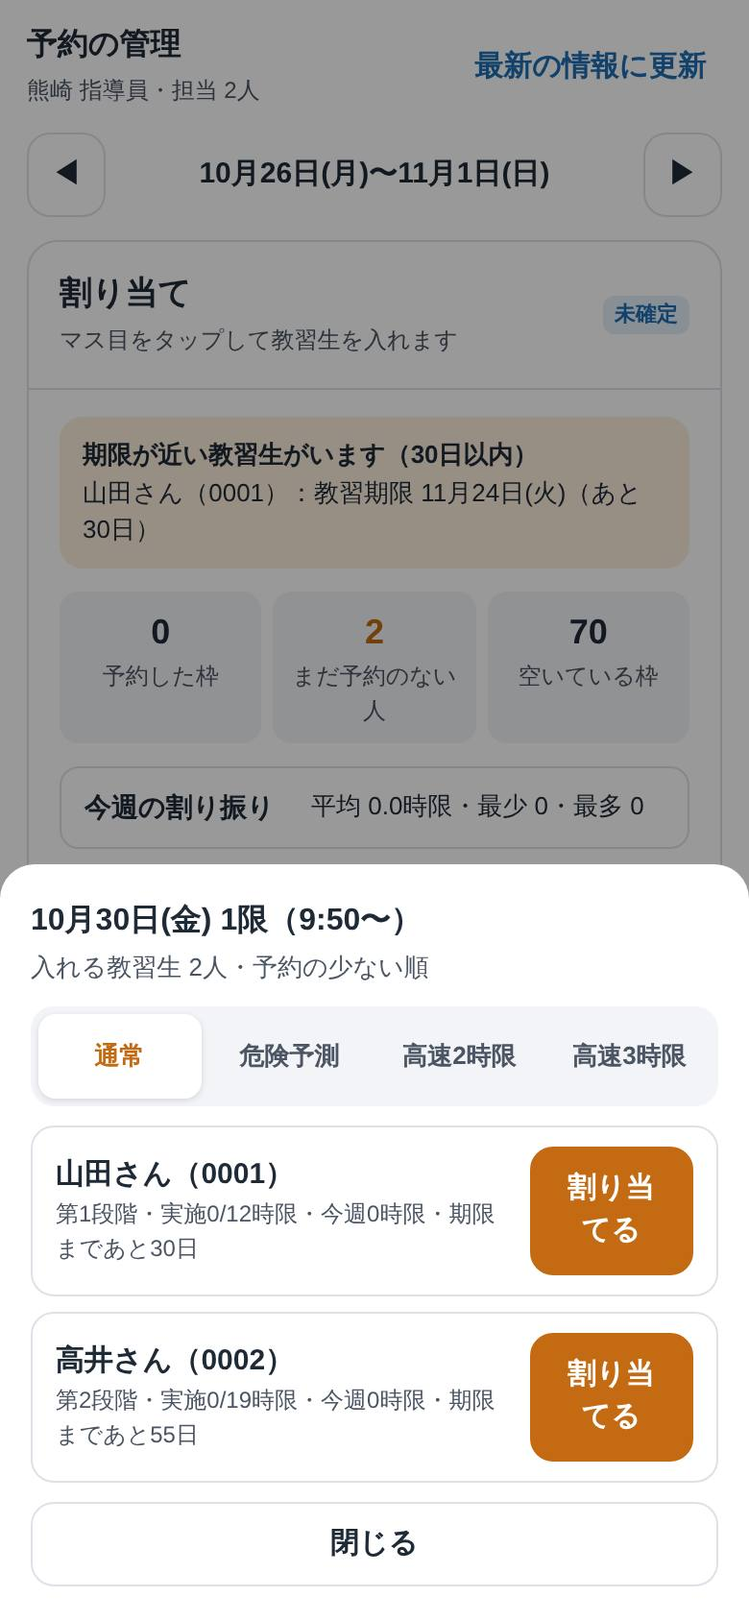
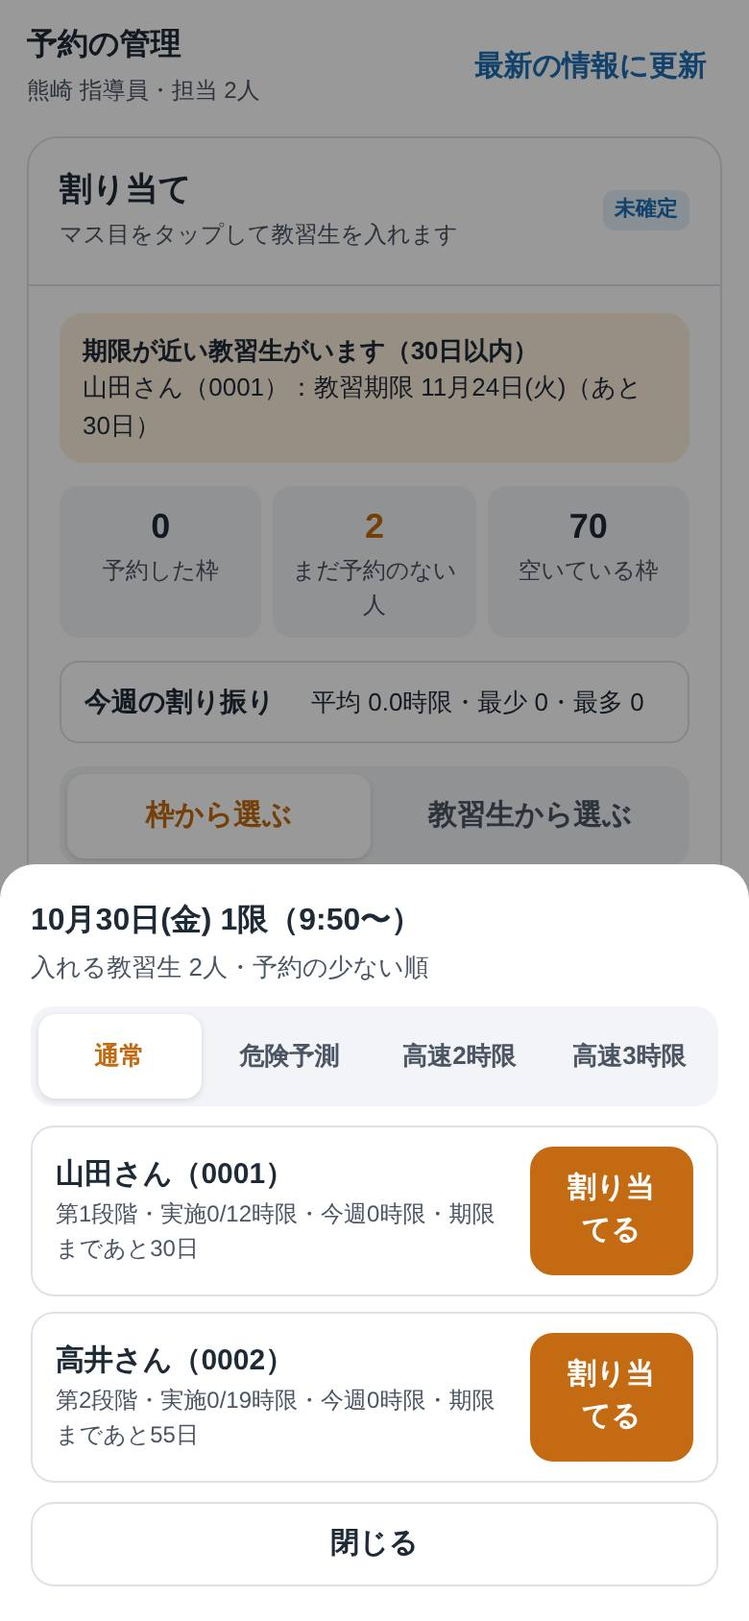
指導員画面の週の切り替えを、マス目のすぐ上に移動（使い方も更新）
Claude-Session: https://claude.ai/code/session_01TFEssVs3Y3zAmrgZUn2J4X

diff --git a/guide-instructor.html b/guide-instructor.html
@@ -49,5 +49,5 @@ footer{margin-top:28px;font-size:13px;color:var(--muted)}
 @media print{body{background:#fff}.phone{box-shadow:none}section.step{break-inside:avoid-page}nav.toc{display:none}}
 </style>
 <div class="wrap"><p style="margin:0 0 12px"><a href="javascript:history.back()" style="color:var(--blue);font-weight:700;text-decoration:none">← 前の画面に戻る</a></p><header class="cover"><div class="eyebrow">聖徳自動車学園　予約の割り当て</div><h1>指導員の画面の使い方</h1><p class="lead">教習生がスマホで登録した空き時間を見ながら、週ごとに予約を割り当てます。確定すると、教習生のスマホに通知が届きます。担当の教習生の登録やQRコードも、この画面で扱います。</p><nav class="toc" aria-label="目次"><a href="#s1">ログイン</a><a href="#s2">ログインした時のお知らせ</a><a href="#s3">画面の見方</a><a href="#s4">マス目の見方</a><a href="#s5">枠から選んで入れる</a><a href="#s6">教習生から選んで入れる</a><a href="#s7">確定して通知する</a><a href="#s8">毎日のチェック</a><a href="#s9">みきわめ</a><a href="#s10">教習生の管理</a><a href="#s11">アクセス記録</a><a href="#s12">設定</a><a href="#s13">教習生を登録してQRを渡す</a><a href="#faq">困った時</a></nav></header>
-<section class="step" id="s1"><h2><span class="no">1</span>ログイン</h2><p>指導員用のQRコードを読み取ると、ログイン画面が開きます。最初にホーム画面に追加し、右上の「通知」をオンにしておくと、キャンセル希望などの知らせが届きます。</p><div class="fig"><div class="phone part"><img src="guide/i_login.jpg" alt="画面の例（メールアドレス、パスワード、ログイン）"><div class="mk" style="left:7.1%;top:26.43%;width:85.7%;height:9.36%"><b>1</b></div><div class="mk" style="left:7.1%;top:41.43%;width:85.7%;height:9.36%"><b>2</b></div><div class="mk" style="left:7.1%;top:51.91%;width:85.7%;height:9.36%"><b>3</b></div></div><ol class="notes"><li><b>1</b><div><strong>メールアドレス</strong><span>QRコードから開くと、自分のメールアドレスが入っています。</span></div></li><li><b>2</b><div><strong>パスワード</strong><span>事務所から伝えられたパスワードを入れます。</span></div></li><li><b>3</b><div><strong>ログイン</strong><span>押すと割り当ての画面が開きます。</span></div></li></ol></div></section><section class="step" id="s2"><h2><span class="no">2</span>ログインした時のお知らせ</h2><p>ログインした時と、しばらくたってアプリに戻った時に、画面の真ん中にお知らせが出ます。開いたままでも、キャンセル希望が届くなど新しいお知らせが増えると、その場で出ます（新しいものには赤い「新着」が付きます）。</p><div class="fig"><div class="phone"><img src="guide/i_notice.jpg" alt="画面の例（お知らせ、あいさつ、お知らせの一覧、OK）"><div class="mk" style="left:7.4%;top:30.36%;width:85.2%;height:8.62%"><b>1</b></div><div class="mk" style="left:7.4%;top:38.90%;width:85.2%;height:3.82%"><b>2</b></div><div class="mk" style="left:7.4%;top:46.24%;width:85.2%;height:16.46%"><b>3</b></div><div class="mk" style="left:-0.3%;top:0.10%;width:100.6%;height:99.80%"><b>4</b></div></div><ol class="notes"><li><b>1</b><div><strong>お知らせ</strong><span>学園のマークの下に「お知らせ」と出ます。</span></div></li><li><b>2</b><div><strong>あいさつ</strong><span>「○○さん　お疲れ様です！」と、お知らせの件数が出ます。0件の時も出ます。</span></div></li><li><b>3</b><div><strong>お知らせの一覧</strong><span>キャンセル希望、本日の検定、終わった教習のチェック待ち、期限が近い教習生、教習の順番のずれ、教習生が◯を外した未確定の予約が並びます。教習生の名前は「山田さん（0001）」のように教習生番号付きで出ます。</span></div></li><li><b>4</b><div><strong>OK</strong><span>押すと閉じます。対応は画面の上のお知らせ（8で説明）から行います。</span></div></li></ol></div><div class="tip"><b>これまでのお知らせ</b>画面の下（PCでは左端）の「お知らせ」タブで、アプリを開いた時に出たお知らせを、あとから新しい順に見直せます（その端末に残ります）。</div></section><section class="step" id="s3"><h2><span class="no">3</span>画面の見方</h2><p>画面の下（PCでは左端）のタブで、「教習生の管理」「予約の管理」「お知らせ」「設定」を切り替えます。「予約の管理」には、上から順に、週の切り替え、その週の状況、割り当て方の切り替え、マス目が並んでいます。PCで開くと、左にマス目、右に集計やお知らせが並ぶPC表示になります。</p><div class="fig"><div class="phone"><img src="guide/i_top.jpg" alt="画面の例（画面の切り替え、最新の情報に更新、週の切り替え、確定済み／未確定、この週の状況、今週の割り振り、割り当て方）"><div class="mk" style="left:-0.3%;top:92.73%;width:100.6%;height:7.17%"><b>1</b></div><div class="mk" style="left:60.6%;top:1.17%;width:36.7%;height:6.01%"><b>2</b></div><div class="mk" style="left:2.8%;top:7.72%;width:94.4%;height:6.07%"><b>3</b></div><div class="mk" style="left:79.7%;top:17.82%;width:13.1%;height:3.23%"><b>4</b></div><div class="mk" style="left:7.1%;top:36.03%;width:85.7%;height:10.16%"><b>5</b></div><div class="mk" style="left:7.4%;top:46.93%;width:85.2%;height:5.66%"><b>6</b></div><div class="mk" style="left:7.1%;top:53.33%;width:85.7%;height:6.96%"><b>7</b></div></div><ol class="notes"><li><b>1</b><div><strong>画面の切り替え</strong><span>「教習生の管理」（10で説明）、「予約の管理」、「お知らせ」、「設定」を切り替えます。いつも表示されています。</span></div></li><li><b>2</b><div><strong>最新の情報に更新</strong><span>教習生の◯やキャンセル希望は自動で反映されますが、予約の内容を読み直したい時に押します。</span></div></li><li><b>3</b><div><strong>週の切り替え</strong><span>◀ ▶ で前後の週に移ります。最初は来週が開きます。</span></div></li><li><b>4</b><div><strong>確定済み／未確定</strong><span>この週の予約を教習生に通知したかどうかです。</span></div></li><li><b>5</b><div><strong>この週の状況</strong><span>予約した枠の数、まだ予約のない教習生の人数、空いている枠の数です。</span></div></li><li><b>6</b><div><strong>今週の割り振り</strong><span>教習生ごとに、この週に何時限入っているかを確認できます（押すと一覧が開きます）。平均・最少・最多と、差が2時限以上ある時はお知らせが出ます。一覧は少ない人から並び、0時限は赤、平均より1時限以上少ない人はオレンジです。名前を押すと、その人を選んで割り当てられます。進み具合に差がつかないよう、少ない人から先に入れてください。</span></div></li><li><b>7</b><div><strong>割り当て方</strong><span>「枠から選ぶ」と「教習生から選ぶ」を切り替えます（5・6で説明）。</span></div></li></ol></div></section><section class="step" id="s4"><h2><span class="no">4</span>マス目の見方</h2><p>縦が時限、横が日付です。空いているマスには、その枠に入れる教習生の人数が出ます。</p><div class="fig"><div class="phone part"><img src="guide/i_grid.jpg" alt="画面の例（色の見方、日付、枠）"><div class="mk" style="left:7.1%;top:2.14%;width:85.7%;height:8.10%"><b>1</b></div><div class="mk" style="left:20.0%;top:17.54%;width:11.0%;height:3.97%"><b>2</b></div><div class="mk" style="left:60.9%;top:21.35%;width:10.5%;height:7.15%"><b>3</b></div></div><ol class="notes"><li><b>1</b><div><strong>色の見方</strong><span>その週で一番多い人数を基準に、緑（少ない）・黄（中間）・赤（多い）に分けています。入れる人が少ない枠ほど先に埋めるのがおすすめです。</span></div></li><li><b>2</b><div><strong>日付</strong><span>月曜から日曜まで出ます。土曜は青、日曜は赤です。</span></div></li><li><b>3</b><div><strong>枠</strong><span>数字と棒の長さが、その枠に入れる人数です。予約が入ると教習生の名前が出ます。教習生がアプリで「確認しました」を押すと、その枠が緑の「確認済」に変わります（開いたままでもすぐ変わります）。</span></div></li></ol></div></section><section class="step" id="s5"><h2><span class="no">5</span>枠から選んで入れる</h2><p>「枠から選ぶ」のまま、入れたいマスを押します。その枠に入れる教習生の一覧が出ます。</p><div class="fig"><div class="phone"><img src="guide/i_slot.jpg" alt="画面の例（教習の種類、候補の教習生、割り当てる）"><div class="mk" style="left:3.3%;top:61.63%;width:93.4%;height:6.96%"><b>1</b></div><div class="mk" style="left:3.3%;top:68.97%;width:93.4%;height:11.35%"><b>2</b></div><div class="mk" style="left:69.9%;top:70.28%;width:23.5%;height:8.74%"><b>3</b></div></div><ol class="notes"><li><b>1</b><div><strong>教習の種類</strong><span>通常・危険予測・高速2時限（単独高速）・高速3時限を切り替えます。危険予測は12時限目、高速教習は13時限目の番が来た教習生だけが候補に出て、2時限・3時限がまとめて入ります（第2段階のみ）。</span></div></li><li><b>2</b><div><strong>候補の教習生</strong><span>今週の予約が少ない人、教習期限が近い人の順に並びます。</span></div></li><li><b>3</b><div><strong>割り当てる</strong><span>押すとその枠に入ります。この時点では、まだ教習生に通知されません。</span></div></li></ol></div><div class="tip"><b>高速教習（3時限）は3人まで一緒に入れます</b>高速教習（3時限）が入っている枠を押すと「この高速教習に一緒に入れる」が出ます。同じ時限に3人まで入れられます。2人以上入ると、枠に「2人・高速」のように人数が出ます。単独高速と危険予測は1人だけです。</div><div class="tip"><b>ルールは自動で確かめます</b>1日の上限（第1段階2時限・第2段階3時限）、連続3時限（高速教習の3時限だけOK）、高速教習の組み合わせ、危険予測は12時限目・高速教習は13時限目から、同じ日に入れられる危険予測と高速教習の組（危険予測4・5限→単独高速6・7限だけ）などのルールに合わない時は入れられません。日没が早い期間の高速教習などは警告が出て、確認すれば入れられます。</div></section><section class="step" id="s6"><h2><span class="no">6</span>教習生から選んで入れる</h2><p>「教習生から選ぶ」に切り替えて、一覧から教習生を選びます。その人が入れる枠だけが光ります。</p><div class="fig"><div class="phone part"><img src="guide/i_pick.jpg" alt="画面の例（割り当て中の教習生、光っている枠、やめる）"><div class="mk" style="left:7.1%;top:1.24%;width:85.7%;height:16.62%"><b>1</b></div><div class="mk" style="left:20.2%;top:23.12%;width:10.5%;height:7.36%"><b>2</b></div><div class="mk" style="left:77.6%;top:2.55%;width:12.7%;height:14.00%"><b>3</b></div></div><ol class="notes"><li><b>1</b><div><strong>割り当て中の教習生</strong><span>選んだ人の段階と、1日に入れられる時限数が出ます。</span></div></li><li><b>2</b><div><strong>光っている枠</strong><span>押すと予約が入ります。危険予測（12時限目）や高速教習（13時限目）の番の人を選ぶと、その教習を入れられる枠だけが光ります（緑は危険予測、オレンジは高速教習。高速は上で2時限か3時限を選びます。光るのは始まりの時限です）。すでに高速教習（3時限）が入っている枠に一緒に入れる時は「一緒に2/3人」と光ります。</span></div></li><li><b>3</b><div><strong>やめる</strong><span>選ぶのをやめて、一覧に戻ります。</span></div></li></ol></div></section><section class="step" id="s7"><h2><span class="no">7</span>確定して通知する</h2><p>割り当てが終わったら、画面下の「この週の予約を確定して通知」を押します。教習生1人につき、1回の通知にまとめて届きます。</p><div class="fig"><div class="phone part"><img src="guide/i_confirm.jpg" alt="画面の例（担当の教習生、確定して通知）"><div class="mk" style="left:7.1%;top:33.67%;width:85.7%;height:20.80%"><b>1</b></div><div class="mk" style="left:7.1%;top:77.38%;width:85.7%;height:9.04%"><b>2</b></div></div><ol class="notes"><li><b>1</b><div><strong>担当の教習生</strong><span>予約の少ない順に並びます。「予約なし」の人がいないか確認してください。</span></div></li><li><b>2</b><div><strong>確定して通知</strong><span>押すと、まだ確定していない予約を教習生に通知します。</span></div></li></ol></div><div class="tip"><b>確定するまでは通知されません</b>確定する前は、何度入れ直しても教習生には通知されません。確定した後に追加・取り消しをすると、その都度通知されます。確定した後に予約を変えたい時は、マス目の予約を押して「この予約を取り消す」か「別の教習生に変える」を選びます（教習生に自動で通知されます）。</div></section><section class="step" id="s8"><h2><span class="no">8</span>毎日のチェック</h2><p>画面の上に、対応が必要なことがまとめて出ます。</p><div class="fig"><div class="phone part"><img src="guide/i_alerts.jpg" alt="画面の例（実施、欠席、本日、検定日の方、承認、却下）"><div class="mk" style="left:74.8%;top:26.91%;width:14.9%;height:7.57%"><b>1</b></div><div class="mk" style="left:60.0%;top:26.91%;width:14.9%;height:7.57%"><b>2</b></div><div class="mk" style="left:7.1%;top:37.06%;width:85.7%;height:10.80%"><b>3</b></div><div class="mk" style="left:74.8%;top:68.60%;width:14.9%;height:7.57%"><b>4</b></div><div class="mk" style="left:60.0%;top:68.60%;width:14.9%;height:7.57%"><b>5</b></div></div><ol class="notes"><li><b>1</b><div><strong>実施</strong><span>教習が終わったら押します。受講済みの時限数が1つ増えます。</span></div></li><li><b>2</b><div><strong>欠席</strong><span>教習生が来なかった時に押します。教習生に欠席の通知が届きます。</span></div></li><li><b>3</b><div><strong>本日、検定日の方</strong><span>今日が検定日の教習生が並びます。</span></div></li><li><b>4</b><div><strong>承認</strong><span>教習生からのキャンセル希望を受けます。予約が取り消され、教習生に通知されます。</span></div></li><li><b>5</b><div><strong>却下</strong><span>キャンセル希望を断ります。予約はそのままで、教習生に通知されます。</span></div></li></ol></div><div class="tip"><b>付け間違えた時</b>マス目の予約を押すと「チェックを取り消す」が出ます。</div></section><section class="step" id="s9"><h2><span class="no">9</span>みきわめ</h2><p>第1段階の12時限目、第2段階の19時限目の教習で「実施」を押すと、みきわめの記録を入れる画面が出ます。不合格の時は、合格するまで次の教習でも同じ画面が出ます。</p><div class="fig"><div class="phone"><img src="guide/i_mk.jpg" alt="画面の例（みきわめの結果、検定日、学科及び効果測定、OK）"><div class="mk" style="left:3.3%;top:55.17%;width:93.4%;height:5.78%"><b>1</b></div><div class="mk" style="left:3.3%;top:61.33%;width:93.4%;height:16.50%"><b>2</b></div><div class="mk" style="left:3.3%;top:79.81%;width:93.4%;height:5.78%"><b>3</b></div><div class="mk" style="left:3.3%;top:85.97%;width:93.4%;height:6.07%"><b>4</b></div></div><ol class="notes"><li><b>1</b><div><strong>みきわめの結果</strong><span>合格か不合格を選びます。</span></div></li><li><b>2</b><div><strong>検定日</strong><span>合格の時だけ出ます。検定日を入れるか、まだ決まっていなければ「検定日は未確定」にチェックします。</span></div></li><li><b>3</b><div><strong>学科及び効果測定</strong><span>終わっているかどうかを選びます。</span></div></li><li><b>4</b><div><strong>OK</strong><span>記録して、教習を実施にします。</span></div></li></ol></div><div class="fig"><div class="phone"><img src="guide/i_mk2.jpg" alt="画面の例（教習生に伝えること、みきわめ報告書）"><div class="mk" style="left:3.3%;top:73.06%;width:93.4%;height:10.10%"><b>1</b></div><div class="mk" style="left:3.3%;top:83.78%;width:93.4%;height:7.79%"><b>2</b></div></div><ol class="notes"><li><b>1</b><div><strong>教習生に伝えること</strong><span>学科及び効果測定が「終わっていない」時に出ます。検定日の2日前までに終わらせるよう、教習生に伝えてください。</span></div></li><li><b>2</b><div><strong>みきわめ報告書</strong><span>学科及び効果測定が終わっていない教習生のみきわめ報告書を提出してください。</span></div></li></ol></div><div class="tip"><b>検定日があとで決まった時</b>「教習生の管理」で教習生の「編集」を開くと、検定日を入れられます。検定日の当日の朝、教習生に通知が届きます。</div></section><section class="step" id="s10"><h2><span class="no">10</span>教習生の管理</h2><p>上の「教習生の管理」を押すと、担当の教習生の一覧が出ます。</p><div class="fig"><div class="phone part"><img src="guide/i_mng.jpg" alt="画面の例（教習生を追加、QRカードを印刷、並べ替え、選ぶ、予約の管理）"><div class="mk" style="left:7.1%;top:17.79%;width:28.3%;height:11.40%"><b>1</b></div><div class="mk" style="left:35.9%;top:17.79%;width:28.3%;height:11.40%"><b>2</b></div><div class="mk" style="left:50.2%;top:32.36%;width:42.6%;height:6.01%"><b>3</b></div><div class="mk" style="left:9.2%;top:44.89%;width:4.9%;height:2.34%"><b>4</b></div><div class="mk" style="left:24.2%;top:92.73%;width:26.6%;height:7.17%"><b>5</b></div></div><ol class="notes"><li><b>1</b><div><strong>教習生を追加</strong><span>新しい教習生を登録します。</span></div></li><li><b>2</b><div><strong>QRカードを印刷</strong><span>チェックを付けた教習生のQRカードをまとめて印刷します。</span></div></li><li><b>3</b><div><strong>並べ替え</strong><span>教習生番号（小さい順・大きい順）、名前（アイウエオ順・逆順）、検定日が近い順・遠い順、教習開始日が近い順・遠い順で並べ替えます。PCでは表の見出しを押しても並べ替えられます。</span></div></li><li><b>4</b><div><strong>選ぶ</strong><span>印刷したい教習生にチェックを付けます。表は横にスクロールでき、右端の「編集」で登録内容の変更、QRコードの表示・再発行、削除ができます。</span></div></li><li><b>5</b><div><strong>予約の管理</strong><span>割り当ての画面に戻ります。</span></div></li></ol></div></section><section class="step" id="s11"><h2><span class="no">11</span>アクセス記録</h2><p>「教習生の管理」の上の「アクセス記録」で、担当の教習生がいつアプリを開いたかを見られます。</p><div class="fig"><div class="phone part"><img src="guide/i_access.jpg" alt="画面の例（切り替え、最後に開いた日時、最近のアクセス）"><div class="mk" style="left:2.8%;top:7.72%;width:94.4%;height:6.96%"><b>1</b></div><div class="mk" style="left:7.1%;top:30.94%;width:85.7%;height:16.56%"><b>2</b></div><div class="mk" style="left:7.1%;top:48.59%;width:85.7%;height:8.50%"><b>3</b></div></div><ol class="notes"><li><b>1</b><div><strong>切り替え</strong><span>「担当の教習生」と「アクセス記録」を切り替えます。</span></div></li><li><b>2</b><div><strong>最後に開いた日時</strong><span>担当の教習生が最後にアプリを開いた日時です。開いたことのない人は「まだ開いていません」と出ます。名前を押すと、その人の記録をすべて見られます。</span></div></li><li><b>3</b><div><strong>最近のアクセス</strong><span>担当の教習生が開いた記録が、新しい順に並びます。</span></div></li></ol></div><div class="tip"><b>記録は90日分です</b>それより古い記録は毎朝自動で消えます。</div></section><section class="step" id="s12"><h2><span class="no">12</span>設定</h2><p>画面の下（PCでは左端）の「設定」で、見た目や使い方を変えられます。設定はその端末に覚えます。画面の下の方には、この端末で通知を受け取る設定、ホーム画面への追加、ログアウト、使い方があります。</p><div class="fig"><div class="phone"><img src="guide/i_set.jpg" alt="画面の例（画面の明るさ、予約の管理）"><div class="mk" style="left:7.1%;top:11.15%;width:85.7%;height:15.85%"><b>1</b></div><div class="mk" style="left:7.1%;top:59.37%;width:85.7%;height:40.20%"><b>2</b></div></div><ol class="notes"><li><b>1</b><div><strong>画面の明るさ</strong><span>ライト（白い背景）、ダーク（黒い背景）、スマホやPCの設定に合わせる、から選びます。その下で、文字の大きさと、PC表示・スマホ表示の切り替えも選べます。</span></div></li><li><b>2</b><div><strong>予約の管理</strong><span>開いた時に表示する週（来週・今週）、最初の割り当て方、「今週の割り振り」を最初から開いておくかを選べます。</span></div></li></ol></div></section><section class="step" id="s13"><h2><span class="no">13</span>教習生を登録してQRを渡す</h2><p>名前（漢字）とフリガナは必ず入れます。ほかの項目はあとからでも入れられます。</p><div class="fig"><div class="phone"><img src="guide/i_new.jpg" alt="画面の例（名前（漢字）、フリガナ、教習生番号）"><div class="mk" style="left:3.3%;top:16.31%;width:46.5%;height:6.07%"><b>1</b></div><div class="mk" style="left:50.2%;top:16.31%;width:46.5%;height:6.07%"><b>2</b></div><div class="mk" style="left:3.3%;top:25.55%;width:46.5%;height:6.07%"><b>3</b></div></div><ol class="notes"><li><b>1</b><div><strong>名前（漢字）</strong><span>必ず入れます。</span></div></li><li><b>2</b><div><strong>フリガナ</strong><span>必ず入れます。ひらがなで入れても、カタカナに直ります。</span></div></li><li><b>3</b><div><strong>教習生番号</strong><span>数字4桁で入れます（例：0123）。画面の下の方に、生年月日・教習期限日・仮免交付日などが続きます。月末・月初に予定が分かる人は「空き時間の入力締切」を遅らせてください（標準は前の月の20日）。第1段階の最低教習時限が12時限でない人は「第1段階の最低教習時限」に入れます。転校の人などは「危険予測」「高速教習」の受講済みも選べます。最後に「保存する」を押します。</span></div></li></ol></div><div class="fig"><div class="phone"><img src="guide/i_qr.jpg" alt="画面の例（その人のQRコード、QRカードを印刷する）"><div class="mk" style="left:21.0%;top:50.25%;width:58.0%;height:27.75%"><b>1</b></div><div class="mk" style="left:3.3%;top:85.97%;width:93.4%;height:6.07%"><b>2</b></div></div><ol class="notes"><li><b>1</b><div><strong>その人のQRコード</strong><span>保存するとすぐに出ます。その場で教習生のスマホのカメラで読み取ってもらい、ホーム画面に追加と通知のオンまで一緒にやると安心です。</span></div></li><li><b>2</b><div><strong>QRカードを印刷する</strong><span>紙で渡したい時に使います。</span></div></li></ol></div><div class="fig"><div class="phone"><img src="guide/i_edit.jpg" alt="画面の例（QRコードを表示する、QRコードを再発行する、この教習生のデータを削除する）"><div class="mk" style="left:3.3%;top:70.75%;width:93.4%;height:6.07%"><b>1</b></div><div class="mk" style="left:3.3%;top:76.97%;width:93.4%;height:8.74%"><b>2</b></div><div class="mk" style="left:3.3%;top:85.86%;width:93.4%;height:6.07%"><b>3</b></div></div><ol class="notes"><li><b>1</b><div><strong>QRコードを表示する</strong><span>読み取り忘れや、スマホを替えた時に使います。</span></div></li><li><b>2</b><div><strong>QRコードを再発行する</strong><span>QRコードをなくした時や、他の人に見られた時に使います。古いQRコードは使えなくなりますが、空き時間や予約はそのまま残ります。</span></div></li><li><b>3</b><div><strong>この教習生のデータを削除する</strong><span>空き時間や予約も含めてすべて消えます。元に戻せません。</span></div></li></ol></div><div class="tip"><b>転校で第2段階から始める人</b>編集画面の「段階」を第2段階にして、「これまでに受けた時限数」を入れてください。</div></section><section class="step" id="faq"><h2><span class="no">？</span>困った時は</h2><div class="faq"><div><strong>教習生の◯が変わった</strong><span>教習生が◯を付け外しすると、開いたままの画面にもすぐに出ます。未確定の予約の枠から◯が外されると、赤く「空き取消」と出ます。</span></div><div><strong>画面の内容が古い気がする</strong><span>画面いちばん下の「最新の情報に更新」を押してください。</span></div><div><strong>画面が開かない・読み込み中のまま</strong><span>LINEなどのアプリの中ではなく、Safari（iPhone）か Chrome（Android）で開いてください。</span></div><div><strong>ログインできない</strong><span>事務所（管理者）に連絡してください。指導員の登録がまだの可能性があります。</span></div></div></section>
+<section class="step" id="s1"><h2><span class="no">1</span>ログイン</h2><p>指導員用のQRコードを読み取ると、ログイン画面が開きます。最初にホーム画面に追加し、右上の「通知」をオンにしておくと、キャンセル希望などの知らせが届きます。</p><div class="fig"><div class="phone part"><img src="guide/i_login.jpg" alt="画面の例（メールアドレス、パスワード、ログイン）"><div class="mk" style="left:7.1%;top:26.43%;width:85.7%;height:9.36%"><b>1</b></div><div class="mk" style="left:7.1%;top:41.43%;width:85.7%;height:9.36%"><b>2</b></div><div class="mk" style="left:7.1%;top:51.91%;width:85.7%;height:9.36%"><b>3</b></div></div><ol class="notes"><li><b>1</b><div><strong>メールアドレス</strong><span>QRコードから開くと、自分のメールアドレスが入っています。</span></div></li><li><b>2</b><div><strong>パスワード</strong><span>事務所から伝えられたパスワードを入れます。</span></div></li><li><b>3</b><div><strong>ログイン</strong><span>押すと割り当ての画面が開きます。</span></div></li></ol></div></section><section class="step" id="s2"><h2><span class="no">2</span>ログインした時のお知らせ</h2><p>ログインした時と、しばらくたってアプリに戻った時に、画面の真ん中にお知らせが出ます。開いたままでも、キャンセル希望が届くなど新しいお知らせが増えると、その場で出ます（新しいものには赤い「新着」が付きます）。</p><div class="fig"><div class="phone"><img src="guide/i_notice.jpg" alt="画面の例（お知らせ、あいさつ、お知らせの一覧、OK）"><div class="mk" style="left:7.4%;top:30.36%;width:85.2%;height:8.62%"><b>1</b></div><div class="mk" style="left:7.4%;top:38.90%;width:85.2%;height:3.82%"><b>2</b></div><div class="mk" style="left:7.4%;top:46.24%;width:85.2%;height:16.46%"><b>3</b></div><div class="mk" style="left:-0.3%;top:0.10%;width:100.6%;height:99.80%"><b>4</b></div></div><ol class="notes"><li><b>1</b><div><strong>お知らせ</strong><span>学園のマークの下に「お知らせ」と出ます。</span></div></li><li><b>2</b><div><strong>あいさつ</strong><span>「○○さん　お疲れ様です！」と、お知らせの件数が出ます。0件の時も出ます。</span></div></li><li><b>3</b><div><strong>お知らせの一覧</strong><span>キャンセル希望、本日の検定、終わった教習のチェック待ち、期限が近い教習生、教習の順番のずれ、教習生が◯を外した未確定の予約が並びます。教習生の名前は「山田さん（0001）」のように教習生番号付きで出ます。</span></div></li><li><b>4</b><div><strong>OK</strong><span>押すと閉じます。対応は画面の上のお知らせ（8で説明）から行います。</span></div></li></ol></div><div class="tip"><b>これまでのお知らせ</b>画面の下（PCでは左端）の「お知らせ」タブで、アプリを開いた時に出たお知らせを、あとから新しい順に見直せます（その端末に残ります）。</div></section><section class="step" id="s3"><h2><span class="no">3</span>画面の見方</h2><p>画面の下（PCでは左端）のタブで、「教習生の管理」「予約の管理」「お知らせ」「設定」を切り替えます。「予約の管理」には、上から順に、その週の状況、割り当て方の切り替え、週の切り替え、マス目が並んでいます。PCで開くと、左にマス目、右に集計やお知らせが並ぶPC表示になります。</p><div class="fig"><div class="phone"><img src="guide/i_top.jpg" alt="画面の例（画面の切り替え、最新の情報に更新、確定済み／未確定、この週の状況、今週の割り振り、割り当て方）"><div class="mk" style="left:-0.3%;top:92.73%;width:100.6%;height:7.17%"><b>1</b></div><div class="mk" style="left:60.6%;top:1.17%;width:36.7%;height:6.01%"><b>2</b></div><div class="mk" style="left:79.7%;top:11.36%;width:13.1%;height:3.23%"><b>3</b></div><div class="mk" style="left:7.1%;top:29.58%;width:85.7%;height:10.16%"><b>4</b></div><div class="mk" style="left:7.4%;top:40.48%;width:85.2%;height:5.66%"><b>5</b></div><div class="mk" style="left:7.1%;top:46.87%;width:85.7%;height:6.96%"><b>6</b></div></div><ol class="notes"><li><b>1</b><div><strong>画面の切り替え</strong><span>「教習生の管理」（10で説明）、「予約の管理」、「お知らせ」、「設定」を切り替えます。いつも表示されています。</span></div></li><li><b>2</b><div><strong>最新の情報に更新</strong><span>教習生の◯やキャンセル希望は自動で反映されますが、予約の内容を読み直したい時に押します。</span></div></li><li><b>3</b><div><strong>確定済み／未確定</strong><span>この週の予約を教習生に通知したかどうかです。</span></div></li><li><b>4</b><div><strong>この週の状況</strong><span>予約した枠の数、まだ予約のない教習生の人数、空いている枠の数です。</span></div></li><li><b>5</b><div><strong>今週の割り振り</strong><span>教習生ごとに、この週に何時限入っているかを確認できます（押すと一覧が開きます）。平均・最少・最多と、差が2時限以上ある時はお知らせが出ます。一覧は少ない人から並び、0時限は赤、平均より1時限以上少ない人はオレンジです。名前を押すと、その人を選んで割り当てられます。進み具合に差がつかないよう、少ない人から先に入れてください。</span></div></li><li><b>6</b><div><strong>割り当て方</strong><span>「枠から選ぶ」と「教習生から選ぶ」を切り替えます（5・6で説明）。</span></div></li></ol></div></section><section class="step" id="s4"><h2><span class="no">4</span>マス目の見方</h2><p>縦が時限、横が日付です。空いているマスには、その枠に入れる教習生の人数が出ます。</p><div class="fig"><div class="phone part"><img src="guide/i_grid.jpg" alt="画面の例（色の見方、週の切り替え、日付、枠）"><div class="mk" style="left:7.1%;top:2.72%;width:85.7%;height:7.47%"><b>1</b></div><div class="mk" style="left:7.1%;top:16.34%;width:85.7%;height:7.25%"><b>2</b></div><div class="mk" style="left:20.0%;top:24.67%;width:11.0%;height:3.70%"><b>3</b></div><div class="mk" style="left:60.9%;top:28.15%;width:10.5%;height:6.60%"><b>4</b></div></div><ol class="notes"><li><b>1</b><div><strong>色の見方</strong><span>その週で一番多い人数を基準に、緑（少ない）・黄（中間）・赤（多い）に分けています。入れる人が少ない枠ほど先に埋めるのがおすすめです。</span></div></li><li><b>2</b><div><strong>週の切り替え</strong><span>マス目のすぐ上にあります。◀ ▶ で前後の週に移ります。最初は来週が開きます。</span></div></li><li><b>3</b><div><strong>日付</strong><span>月曜から日曜まで出ます。土曜は青、日曜は赤です。</span></div></li><li><b>4</b><div><strong>枠</strong><span>数字と棒の長さが、その枠に入れる人数です。予約が入ると教習生の名前が出ます。教習生がアプリで「確認しました」を押すと、その枠が緑の「確認済」に変わります（開いたままでもすぐ変わります）。</span></div></li></ol></div></section><section class="step" id="s5"><h2><span class="no">5</span>枠から選んで入れる</h2><p>「枠から選ぶ」のまま、入れたいマスを押します。その枠に入れる教習生の一覧が出ます。</p><div class="fig"><div class="phone"><img src="guide/i_slot.jpg" alt="画面の例（教習の種類、候補の教習生、割り当てる）"><div class="mk" style="left:3.3%;top:61.63%;width:93.4%;height:6.96%"><b>1</b></div><div class="mk" style="left:3.3%;top:68.97%;width:93.4%;height:11.35%"><b>2</b></div><div class="mk" style="left:69.9%;top:70.28%;width:23.5%;height:8.74%"><b>3</b></div></div><ol class="notes"><li><b>1</b><div><strong>教習の種類</strong><span>通常・危険予測・高速2時限（単独高速）・高速3時限を切り替えます。危険予測は12時限目、高速教習は13時限目の番が来た教習生だけが候補に出て、2時限・3時限がまとめて入ります（第2段階のみ）。</span></div></li><li><b>2</b><div><strong>候補の教習生</strong><span>今週の予約が少ない人、教習期限が近い人の順に並びます。</span></div></li><li><b>3</b><div><strong>割り当てる</strong><span>押すとその枠に入ります。この時点では、まだ教習生に通知されません。</span></div></li></ol></div><div class="tip"><b>高速教習（3時限）は3人まで一緒に入れます</b>高速教習（3時限）が入っている枠を押すと「この高速教習に一緒に入れる」が出ます。同じ時限に3人まで入れられます。2人以上入ると、枠に「2人・高速」のように人数が出ます。単独高速と危険予測は1人だけです。</div><div class="tip"><b>ルールは自動で確かめます</b>1日の上限（第1段階2時限・第2段階3時限）、連続3時限（高速教習の3時限だけOK）、高速教習の組み合わせ、危険予測は12時限目・高速教習は13時限目から、同じ日に入れられる危険予測と高速教習の組（危険予測4・5限→単独高速6・7限だけ）などのルールに合わない時は入れられません。日没が早い期間の高速教習などは警告が出て、確認すれば入れられます。</div></section><section class="step" id="s6"><h2><span class="no">6</span>教習生から選んで入れる</h2><p>「教習生から選ぶ」に切り替えて、一覧から教習生を選びます。その人が入れる枠だけが光ります。</p><div class="fig"><div class="phone part"><img src="guide/i_pick.jpg" alt="画面の例（割り当て中の教習生、光っている枠、やめる）"><div class="mk" style="left:7.1%;top:1.24%;width:85.7%;height:16.62%"><b>1</b></div><div class="mk" style="left:20.2%;top:32.06%;width:10.5%;height:7.36%"><b>2</b></div><div class="mk" style="left:77.6%;top:2.55%;width:12.7%;height:14.00%"><b>3</b></div></div><ol class="notes"><li><b>1</b><div><strong>割り当て中の教習生</strong><span>選んだ人の段階と、1日に入れられる時限数が出ます。</span></div></li><li><b>2</b><div><strong>光っている枠</strong><span>押すと予約が入ります。危険予測（12時限目）や高速教習（13時限目）の番の人を選ぶと、その教習を入れられる枠だけが光ります（緑は危険予測、オレンジは高速教習。高速は上で2時限か3時限を選びます。光るのは始まりの時限です）。すでに高速教習（3時限）が入っている枠に一緒に入れる時は「一緒に2/3人」と光ります。</span></div></li><li><b>3</b><div><strong>やめる</strong><span>選ぶのをやめて、一覧に戻ります。</span></div></li></ol></div></section><section class="step" id="s7"><h2><span class="no">7</span>確定して通知する</h2><p>割り当てが終わったら、画面下の「この週の予約を確定して通知」を押します。教習生1人につき、1回の通知にまとめて届きます。</p><div class="fig"><div class="phone part"><img src="guide/i_confirm.jpg" alt="画面の例（担当の教習生、確定して通知）"><div class="mk" style="left:7.1%;top:33.67%;width:85.7%;height:20.80%"><b>1</b></div><div class="mk" style="left:7.1%;top:77.38%;width:85.7%;height:9.04%"><b>2</b></div></div><ol class="notes"><li><b>1</b><div><strong>担当の教習生</strong><span>予約の少ない順に並びます。「予約なし」の人がいないか確認してください。</span></div></li><li><b>2</b><div><strong>確定して通知</strong><span>押すと、まだ確定していない予約を教習生に通知します。</span></div></li></ol></div><div class="tip"><b>確定するまでは通知されません</b>確定する前は、何度入れ直しても教習生には通知されません。確定した後に追加・取り消しをすると、その都度通知されます。確定した後に予約を変えたい時は、マス目の予約を押して「この予約を取り消す」か「別の教習生に変える」を選びます（教習生に自動で通知されます）。</div></section><section class="step" id="s8"><h2><span class="no">8</span>毎日のチェック</h2><p>画面の上に、対応が必要なことがまとめて出ます。</p><div class="fig"><div class="phone part"><img src="guide/i_alerts.jpg" alt="画面の例（実施、欠席、本日、検定日の方、承認、却下）"><div class="mk" style="left:74.8%;top:26.91%;width:14.9%;height:7.57%"><b>1</b></div><div class="mk" style="left:60.0%;top:26.91%;width:14.9%;height:7.57%"><b>2</b></div><div class="mk" style="left:7.1%;top:37.06%;width:85.7%;height:10.80%"><b>3</b></div><div class="mk" style="left:74.8%;top:68.60%;width:14.9%;height:7.57%"><b>4</b></div><div class="mk" style="left:60.0%;top:68.60%;width:14.9%;height:7.57%"><b>5</b></div></div><ol class="notes"><li><b>1</b><div><strong>実施</strong><span>教習が終わったら押します。受講済みの時限数が1つ増えます。</span></div></li><li><b>2</b><div><strong>欠席</strong><span>教習生が来なかった時に押します。教習生に欠席の通知が届きます。</span></div></li><li><b>3</b><div><strong>本日、検定日の方</strong><span>今日が検定日の教習生が並びます。</span></div></li><li><b>4</b><div><strong>承認</strong><span>教習生からのキャンセル希望を受けます。予約が取り消され、教習生に通知されます。</span></div></li><li><b>5</b><div><strong>却下</strong><span>キャンセル希望を断ります。予約はそのままで、教習生に通知されます。</span></div></li></ol></div><div class="tip"><b>付け間違えた時</b>マス目の予約を押すと「チェックを取り消す」が出ます。</div></section><section class="step" id="s9"><h2><span class="no">9</span>みきわめ</h2><p>第1段階の12時限目、第2段階の19時限目の教習で「実施」を押すと、みきわめの記録を入れる画面が出ます。不合格の時は、合格するまで次の教習でも同じ画面が出ます。</p><div class="fig"><div class="phone"><img src="guide/i_mk.jpg" alt="画面の例（みきわめの結果、検定日、学科及び効果測定、OK）"><div class="mk" style="left:3.3%;top:55.17%;width:93.4%;height:5.78%"><b>1</b></div><div class="mk" style="left:3.3%;top:61.33%;width:93.4%;height:16.50%"><b>2</b></div><div class="mk" style="left:3.3%;top:79.81%;width:93.4%;height:5.78%"><b>3</b></div><div class="mk" style="left:3.3%;top:85.97%;width:93.4%;height:6.07%"><b>4</b></div></div><ol class="notes"><li><b>1</b><div><strong>みきわめの結果</strong><span>合格か不合格を選びます。</span></div></li><li><b>2</b><div><strong>検定日</strong><span>合格の時だけ出ます。検定日を入れるか、まだ決まっていなければ「検定日は未確定」にチェックします。</span></div></li><li><b>3</b><div><strong>学科及び効果測定</strong><span>終わっているかどうかを選びます。</span></div></li><li><b>4</b><div><strong>OK</strong><span>記録して、教習を実施にします。</span></div></li></ol></div><div class="fig"><div class="phone"><img src="guide/i_mk2.jpg" alt="画面の例（教習生に伝えること、みきわめ報告書）"><div class="mk" style="left:3.3%;top:73.06%;width:93.4%;height:10.10%"><b>1</b></div><div class="mk" style="left:3.3%;top:83.78%;width:93.4%;height:7.79%"><b>2</b></div></div><ol class="notes"><li><b>1</b><div><strong>教習生に伝えること</strong><span>学科及び効果測定が「終わっていない」時に出ます。検定日の2日前までに終わらせるよう、教習生に伝えてください。</span></div></li><li><b>2</b><div><strong>みきわめ報告書</strong><span>学科及び効果測定が終わっていない教習生のみきわめ報告書を提出してください。</span></div></li></ol></div><div class="tip"><b>検定日があとで決まった時</b>「教習生の管理」で教習生の「編集」を開くと、検定日を入れられます。検定日の当日の朝、教習生に通知が届きます。</div></section><section class="step" id="s10"><h2><span class="no">10</span>教習生の管理</h2><p>上の「教習生の管理」を押すと、担当の教習生の一覧が出ます。</p><div class="fig"><div class="phone part"><img src="guide/i_mng.jpg" alt="画面の例（教習生を追加、QRカードを印刷、並べ替え、選ぶ、予約の管理）"><div class="mk" style="left:7.1%;top:17.79%;width:28.3%;height:11.40%"><b>1</b></div><div class="mk" style="left:35.9%;top:17.79%;width:28.3%;height:11.40%"><b>2</b></div><div class="mk" style="left:50.2%;top:32.36%;width:42.6%;height:6.01%"><b>3</b></div><div class="mk" style="left:9.2%;top:44.89%;width:4.9%;height:2.34%"><b>4</b></div><div class="mk" style="left:24.2%;top:92.73%;width:26.6%;height:7.17%"><b>5</b></div></div><ol class="notes"><li><b>1</b><div><strong>教習生を追加</strong><span>新しい教習生を登録します。</span></div></li><li><b>2</b><div><strong>QRカードを印刷</strong><span>チェックを付けた教習生のQRカードをまとめて印刷します。</span></div></li><li><b>3</b><div><strong>並べ替え</strong><span>教習生番号（小さい順・大きい順）、名前（アイウエオ順・逆順）、検定日が近い順・遠い順、教習開始日が近い順・遠い順で並べ替えます。PCでは表の見出しを押しても並べ替えられます。</span></div></li><li><b>4</b><div><strong>選ぶ</strong><span>印刷したい教習生にチェックを付けます。表は横にスクロールでき、右端の「編集」で登録内容の変更、QRコードの表示・再発行、削除ができます。</span></div></li><li><b>5</b><div><strong>予約の管理</strong><span>割り当ての画面に戻ります。</span></div></li></ol></div></section><section class="step" id="s11"><h2><span class="no">11</span>アクセス記録</h2><p>「教習生の管理」の上の「アクセス記録」で、担当の教習生がいつアプリを開いたかを見られます。</p><div class="fig"><div class="phone part"><img src="guide/i_access.jpg" alt="画面の例（切り替え、最後に開いた日時、最近のアクセス）"><div class="mk" style="left:2.8%;top:7.72%;width:94.4%;height:6.96%"><b>1</b></div><div class="mk" style="left:7.1%;top:30.94%;width:85.7%;height:16.56%"><b>2</b></div><div class="mk" style="left:7.1%;top:48.59%;width:85.7%;height:8.50%"><b>3</b></div></div><ol class="notes"><li><b>1</b><div><strong>切り替え</strong><span>「担当の教習生」と「アクセス記録」を切り替えます。</span></div></li><li><b>2</b><div><strong>最後に開いた日時</strong><span>担当の教習生が最後にアプリを開いた日時です。開いたことのない人は「まだ開いていません」と出ます。名前を押すと、その人の記録をすべて見られます。</span></div></li><li><b>3</b><div><strong>最近のアクセス</strong><span>担当の教習生が開いた記録が、新しい順に並びます。</span></div></li></ol></div><div class="tip"><b>記録は90日分です</b>それより古い記録は毎朝自動で消えます。</div></section><section class="step" id="s12"><h2><span class="no">12</span>設定</h2><p>画面の下（PCでは左端）の「設定」で、見た目や使い方を変えられます。設定はその端末に覚えます。画面の下の方には、この端末で通知を受け取る設定、ホーム画面への追加、ログアウト、使い方があります。</p><div class="fig"><div class="phone"><img src="guide/i_set.jpg" alt="画面の例（画面の明るさ、予約の管理）"><div class="mk" style="left:7.1%;top:11.15%;width:85.7%;height:15.85%"><b>1</b></div><div class="mk" style="left:7.1%;top:59.37%;width:85.7%;height:40.20%"><b>2</b></div></div><ol class="notes"><li><b>1</b><div><strong>画面の明るさ</strong><span>ライト（白い背景）、ダーク（黒い背景）、スマホやPCの設定に合わせる、から選びます。その下で、文字の大きさと、PC表示・スマホ表示の切り替えも選べます。</span></div></li><li><b>2</b><div><strong>予約の管理</strong><span>開いた時に表示する週（来週・今週）、最初の割り当て方、「今週の割り振り」を最初から開いておくかを選べます。</span></div></li></ol></div></section><section class="step" id="s13"><h2><span class="no">13</span>教習生を登録してQRを渡す</h2><p>名前（漢字）とフリガナは必ず入れます。ほかの項目はあとからでも入れられます。</p><div class="fig"><div class="phone"><img src="guide/i_new.jpg" alt="画面の例（名前（漢字）、フリガナ、教習生番号）"><div class="mk" style="left:3.3%;top:16.31%;width:46.5%;height:6.07%"><b>1</b></div><div class="mk" style="left:50.2%;top:16.31%;width:46.5%;height:6.07%"><b>2</b></div><div class="mk" style="left:3.3%;top:25.55%;width:46.5%;height:6.07%"><b>3</b></div></div><ol class="notes"><li><b>1</b><div><strong>名前（漢字）</strong><span>必ず入れます。</span></div></li><li><b>2</b><div><strong>フリガナ</strong><span>必ず入れます。ひらがなで入れても、カタカナに直ります。</span></div></li><li><b>3</b><div><strong>教習生番号</strong><span>数字4桁で入れます（例：0123）。画面の下の方に、生年月日・教習期限日・仮免交付日などが続きます。月末・月初に予定が分かる人は「空き時間の入力締切」を遅らせてください（標準は前の月の20日）。第1段階の最低教習時限が12時限でない人は「第1段階の最低教習時限」に入れます。転校の人などは「危険予測」「高速教習」の受講済みも選べます。最後に「保存する」を押します。</span></div></li></ol></div><div class="fig"><div class="phone"><img src="guide/i_qr.jpg" alt="画面の例（その人のQRコード、QRカードを印刷する）"><div class="mk" style="left:21.0%;top:50.25%;width:58.0%;height:27.75%"><b>1</b></div><div class="mk" style="left:3.3%;top:85.97%;width:93.4%;height:6.07%"><b>2</b></div></div><ol class="notes"><li><b>1</b><div><strong>その人のQRコード</strong><span>保存するとすぐに出ます。その場で教習生のスマホのカメラで読み取ってもらい、ホーム画面に追加と通知のオンまで一緒にやると安心です。</span></div></li><li><b>2</b><div><strong>QRカードを印刷する</strong><span>紙で渡したい時に使います。</span></div></li></ol></div><div class="fig"><div class="phone"><img src="guide/i_edit.jpg" alt="画面の例（QRコードを表示する、QRコードを再発行する、この教習生のデータを削除する）"><div class="mk" style="left:3.3%;top:70.75%;width:93.4%;height:6.07%"><b>1</b></div><div class="mk" style="left:3.3%;top:76.97%;width:93.4%;height:8.74%"><b>2</b></div><div class="mk" style="left:3.3%;top:85.86%;width:93.4%;height:6.07%"><b>3</b></div></div><ol class="notes"><li><b>1</b><div><strong>QRコードを表示する</strong><span>読み取り忘れや、スマホを替えた時に使います。</span></div></li><li><b>2</b><div><strong>QRコードを再発行する</strong><span>QRコードをなくした時や、他の人に見られた時に使います。古いQRコードは使えなくなりますが、空き時間や予約はそのまま残ります。</span></div></li><li><b>3</b><div><strong>この教習生のデータを削除する</strong><span>空き時間や予約も含めてすべて消えます。元に戻せません。</span></div></li></ol></div><div class="tip"><b>転校で第2段階から始める人</b>編集画面の「段階」を第2段階にして、「これまでに受けた時限数」を入れてください。</div></section><section class="step" id="faq"><h2><span class="no">？</span>困った時は</h2><div class="faq"><div><strong>教習生の◯が変わった</strong><span>教習生が◯を付け外しすると、開いたままの画面にもすぐに出ます。未確定の予約の枠から◯が外されると、赤く「空き取消」と出ます。</span></div><div><strong>画面の内容が古い気がする</strong><span>画面いちばん下の「最新の情報に更新」を押してください。</span></div><div><strong>画面が開かない・読み込み中のまま</strong><span>LINEなどのアプリの中ではなく、Safari（iPhone）か Chrome（Android）で開いてください。</span></div><div><strong>ログインできない</strong><span>事務所（管理者）に連絡してください。指導員の登録がまだの可能性があります。</span></div></div></section>
 <footer>画面の名前や日付は説明用の見本です。運用のルールが変わると、画面や説明も変わることがあります。</footer></div>

diff --git a/js/instructor.js b/js/instructor.js
@@ -340,8 +340,9 @@ function render() {
   const ds = days(); const wEnd = ds[ds.length - 1];
   let h = `<div class="topbar"><div><h1>予約の管理</h1><small>${esc(S.me ? S.me.name : "")} 指導員・担当 ${S.students.length}人</small></div>
     <span><button class="linkbtn" data-act="reload">最新の情報に更新</button></span></div>`;
-  h += `<div class="weeknav"><button class="btn" data-act="wk" data-v="-7" aria-label="前の週">◀</button><b>${md(ds[0])}〜${md(wEnd)}</b><button class="btn" data-act="wk" data-v="7" aria-label="次の週">▶</button></div>`;
-  if (S.loading) { root.innerHTML = h + `<div class="loading">読み込み中…</div>`; return; }
+  // 週の切り替えは、マス目のすぐ上に出す（依頼者指定）
+  const weekNav = `<div class="weeknav"><button class="btn" data-act="wk" data-v="-7" aria-label="前の週">◀</button><b>${md(ds[0])}〜${md(wEnd)}</b><button class="btn" data-act="wk" data-v="7" aria-label="次の週">▶</button></div>`;
+  if (S.loading) { root.innerHTML = h + weekNav + `<div class="loading">読み込み中…</div>`; return; }
   const top = h + `<section class="panel"><div class="phead"><div><h2>割り当て</h2><small>マス目をタップして教習生を入れます</small></div>
     ${S.confirmed ? '<span class="tag ok">確定済み</span>' : '<span class="tag draft">未確定</span>'}</div><div class="body">`;
   h = indexBanner();
@@ -397,7 +398,7 @@ function render() {
     h += `<div class="heatleg"><span><i style="background:var(--lv1-soft);border-color:var(--lv1)"></i>少ない（${T1}人以下）</span><span><i style="background:var(--lv2-soft);border-color:var(--lv2)"></i>中間（${T1 + 1}〜${T2}人）</span><span><i style="background:var(--lv3-soft);border-color:var(--lv3)"></i>多い（${T2 + 1}人以上）</span></div>
     <div style="font-size:12px;color:var(--muted);margin-bottom:6px">数字と棒の長さは、その枠に入れる人数（この週の最多${maxN}人を基準に色分け）</div>`;
   }
-  h += `<div class="gridwrap"><table class="wk"><thead><tr><th class="pl"></th>`;
+  h += weekNav + `<div class="gridwrap"><table class="wk"><thead><tr><th class="pl"></th>`;
   ds.forEach(d => { const w = parseDate(d).getDay(); h += `<th style="${w === 6 ? "color:var(--blue)" : w === 0 ? "color:#C0392B" : ""}">${parseDate(d).getDate()}(${WD[w]})</th>`; });
   h += `</tr></thead><tbody>`;
   for (let p = 1; p <= 10; p++) {
